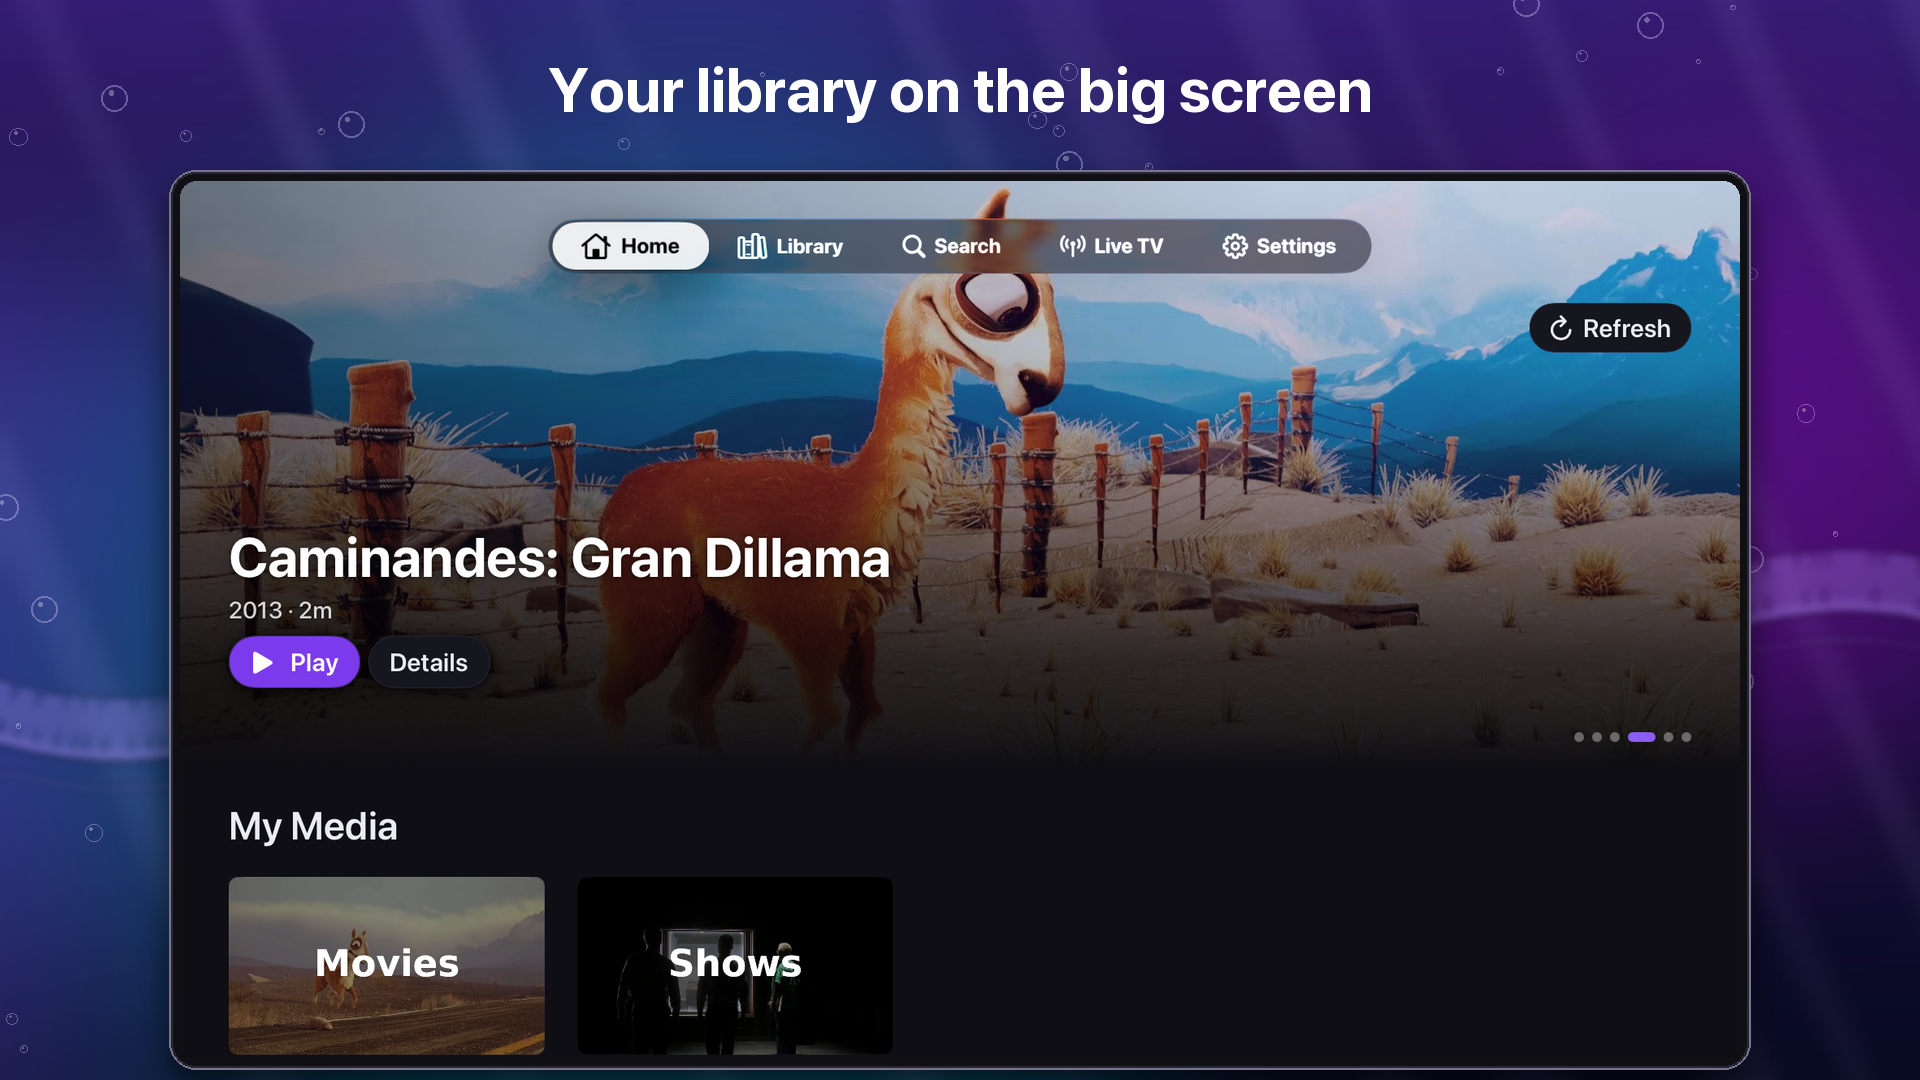
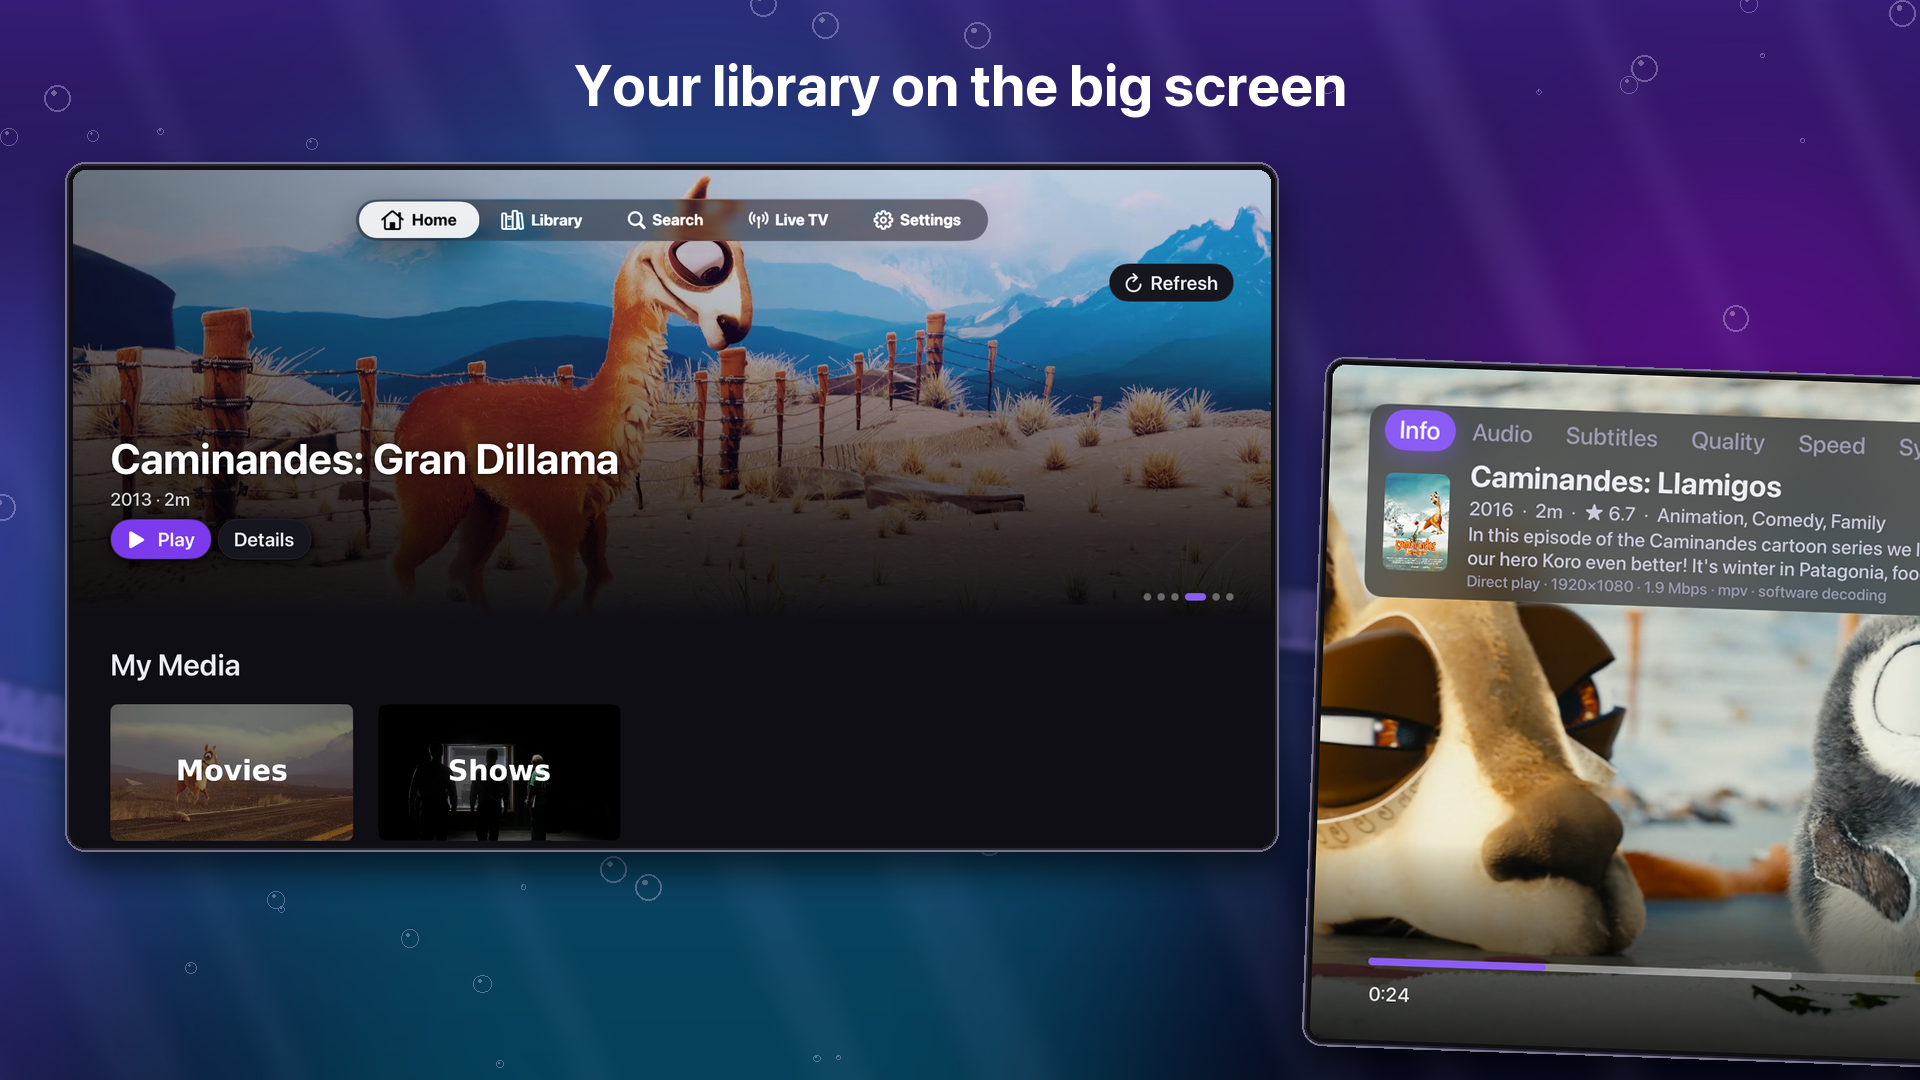
Panorama screenshots: three cards per set; Duo at store sizes
The store shows the first three screenshots together, so every set is now
three cards that run as one picture. iPhone keeps all five screens by
layering them; Duo and Apple TV alternate screens high and low so every
other one crosses a cut. The Duo's own 2853x2007 was rejected, so it is
rendered at iPad 13" landscape (2752x2064) and iPhone 6.9" landscape
(2868x1320) instead.

diff --git a/Aquarium/Tools/ScreenshotPanorama/panorama.py b/Aquarium/Tools/ScreenshotPanorama/panorama.py
@@ -264,27 +264,21 @@ class Canvas:
 # ---------------------------------------------------------------- the sets
 
 def iphone():
-    """6.9" iPhone: Home, the player across cards 2 and 3, Live TV, Music, a series."""
+    """6.9" iPhone, three cards: Home; the landscape player across the first
+    cut with Live TV above it; Now Playing across the second cut; a series."""
     W, H = 1320, 2868
-    c = Canvas(W, H, 6, seed=3)
-    head, top = 118, 170
+    c = Canvas(W, H, 3, seed=3)
+    head, top = 112, 170
     c.headline(0, ["Your whole library,", "front and centre"], top, head)
-    c.headline(1, ["Plays your files", "as they are"], top, head)
-    c.headline(2, ["Every control,", "one tap away"], top, head)
-    c.headline(3, ["Live TV with", "a real guide"], top, head)
-    c.headline(4, ["Your music,", "your stations"], top, head)
-    c.headline(5, ["Every series,", "every season"], top, head)
-
+    c.headline(1, ["Plays your files,", "Live TV with a guide"], top, head)
+    c.headline(2, ["Your music,", "every series"], top, head)
     phone = lambda name, w: framed(capture(name), w, "phone")
-    c.place(phone("iphone-home.png", 1040), 0.5 * W, 590)
-    # The landscape player straddles the cut between cards 2 and 3.
-    c.place(phone("iphone-player.png", 2300), 2.0 * W, 700)
-    c.pills(1, ["Direct play", "Skip intro & credits", "Up Next", "Picture in Picture"], 2000, 76)
-    c.pills(2, ["Speed", "Sleep timer", "SharePlay", "AirPlay", "Audio & subtitles"], 2000, 76)
-    c.place(phone("iphone-livetv.png", 1040), 3.5 * W, 590)
-    c.place(phone("iphone-music.png", 860), 4.36 * W, 640, rotate=5)
-    c.place(phone("iphone-nowplaying.png", 860), 4.66 * W, 820, rotate=-4)
-    c.place(phone("iphone-series.png", 1040), 5.5 * W, 590)
+    c.place(phone("iphone-home.png", 880), 0.45 * W, 520)
+    c.place(phone("iphone-livetv.png", 880), 1.55 * W, 520)
+    c.place(phone("iphone-series.png", 880), 2.6 * W, 520)
+    # In front, low: the player across the first cut, Now Playing across the second.
+    c.place(phone("iphone-player.png", 1560), 1.0 * W, 1990, rotate=2)
+    c.place(phone("iphone-nowplaying.png", 780), 2.02 * W, 1180, rotate=-5)
     c.save("iPhone-6.9in", gap_px=60)
 
 
@@ -298,59 +292,52 @@ def watch():
     c.save("AppleWatch-46mm", gap_px=20)
 
 
-def duo():
-    """iPhone Duo, open: Home, the player across cards 2 and 3 with the words
-    either side of it, Live TV, Music, a series."""
-    W, H = 2853, 2007
-    c = Canvas(W, H, 6, seed=7)
-    head, top = 104, 110
-    c.headline(0, ["Your whole library, front and centre", "on the big inside screen"], top, head)
-    c.headline(3, ["Live TV with a real guide", "every channel at a glance"], top, head)
-    c.headline(4, ["Your music, your stations", "built from what you play"], top, head)
-    c.headline(5, ["Every series, every season", "carry on where you left off"], top, head)
-    duo = lambda name, w: framed(capture(name), w, "duo")
-    for i, name in [(0, "duo-home.png"), (3, "duo-livetv.png"), (4, "duo-music.png"), (5, "duo-series.png")]:
-        c.place(duo(name, 2380), i * W + W * 0.5, 400)
+def cascade(c, shots, kind, heads, head_size):
+    """Five screens across three landscape cards, alternating high and low so
+    every other one crosses a cut: high ones in the middle of a card, low
+    ones over the cuts and in front."""
+    W, H = c.card_w, c.card_h
+    for i, text in enumerate(heads):
+        c.headline(i, [text], H * 0.045, head_size)
+    aspect = capture(shots[0]).height / capture(shots[0]).width
+    if W / H > 1.9:
+        # A wide card has no room for two rows: one row, each screen as tall
+        # as the card allows, every other one sitting over a cut.
+        top = H * 0.135
+        width = min(W * 0.58, (H * 0.975 - top) / aspect)
+        for i, name in enumerate(shots):
+            c.place(framed(capture(name), round(width), kind), (0.3 + 0.6 * i) * W, top,
+                    rotate=1.5 if i % 2 else -1.5)
+        return
+    high_top, low_top = H * 0.15, H * 0.33
+    width = min(W * 0.64, (H * 0.985 - low_top) / aspect / 1.05)
+    spots = [(0.35, high_top), (1.0, low_top), (1.55, high_top), (2.08, low_top), (2.65, high_top)]
+    for i in [0, 2, 4, 1, 3]:
+        cx, top = spots[i]
+        c.place(framed(capture(shots[i]), round(width), kind), cx * W, top,
+                rotate=(-2 if i == 1 else 2) if top == low_top else 0)
 
-    # The player hangs across the cut between cards 2 and 3, upright in the
-    # middle of the strip; each card keeps the open sea beside it for words.
-    player = duo("duo-player.png", 2250)
-    c.place(player, 2.0 * W, (H - player.height) / 2)
-    left = (W + 190, 2.0 * W - player.width / 2 - W - 330)
-    right = (2.0 * W + player.width / 2 + 140, 3 * W - (2.0 * W + player.width / 2) - 330)
-    y = c.headline(1, ["Plays your files", "as they are"], 520, 150, align="left", region=left)
-    c.pills(1, ["Direct play", "Skip intro & credits", "Up Next", "Picture in Picture"], y + 80, 76,
-            align="left", region=left)
-    y = c.headline(2, ["Every control,", "one tap away"], 520, 150, align="left", region=right)
-    c.pills(2, ["Speed", "Sleep timer", "SharePlay", "AirPlay", "Audio & subtitles"], y + 80, 76,
-            align="left", region=right)
-    c.save("iPhoneDuo", gap_px=70)
+
+def duo():
+    """iPhone Duo, open, in the two landscape sizes the store takes:
+    Home, the player, Live TV, Music, a series."""
+    shots = ["duo-home.png", "duo-player.png", "duo-livetv.png", "duo-music.png", "duo-series.png"]
+    heads = ["Your whole library, front and centre", "Plays your files, Live TV with a guide",
+             "Your music, every series"]
+    for name, (W, H), size in [("iPhoneDuo-iPad-13in", (2752, 2064), 96),
+                               ("iPhoneDuo-iPhone-6.9in", (2868, 1320), 70)]:
+        c = Canvas(W, H, 3, seed=7)
+        cascade(c, shots, "duo", heads, size)
+        c.save(name, gap_px=70)
 
 
 def tv():
-    """Apple TV, 1080p: Home, the player and its panel across cards 2 and 3,
-    audio sync, Live TV, a series."""
-    W, H = 1920, 1080
-    c = Canvas(W, H, 6, seed=5)
-    head, top = 62, 52
-    c.headline(0, ["Your library on the big screen"], top, head)
-    c.headline(3, ["Audio sync you set by ear"], top, head)
-    c.headline(4, ["Live TV with a real guide"], top, head)
-    c.headline(5, ["Every series, every season"], top, head)
-    screen = lambda name, w=1560: framed(capture(name), w, "tv")
-    for i, name in [(0, "tv-home.png"), (3, "tvp-sync.png"), (4, "tv-livetv.png"), (5, "tv-episodes.png")]:
-        c.place(screen(name), i * W + W * 0.5, 170)
-
-    player = screen("tvp-info.png", 1640)
-    c.place(player, 2.0 * W, (H - player.height) / 2)
-    left = (W + 100, 2.0 * W - player.width / 2 - W - 160)
-    right = (2.0 * W + player.width / 2 + 70, 3 * W - (2.0 * W + player.width / 2) - 160)
-    y = c.headline(1, ["Plays the file", "as it is"], 290, 80, align="left", region=left)
-    c.pills(1, ["Direct play", "MKV, DTS, TrueHD", "Your TV's frame rate"], y + 40, 38,
-            align="left", region=left)
-    y = c.headline(2, ["Everything,", "one swipe down"], 290, 80, align="left", region=right)
-    c.pills(2, ["Info", "Audio", "Subtitles", "Quality", "Speed", "Sync", "Picture"], y + 40, 38,
-            align="left", region=right)
+    """Apple TV, 1080p: Home, the player and its panel, Live TV, audio sync,
+    a series."""
+    c = Canvas(1920, 1080, 3, seed=5)
+    cascade(c, ["tv-home.png", "tvp-info.png", "tv-livetv.png", "tvp-sync.png", "tv-episodes.png"], "tv",
+            ["Your library on the big screen", "Plays the file as it is, Live TV too",
+             "Sync by ear, every series"], 58)
     c.save("AppleTV", gap_px=40)
 
 
